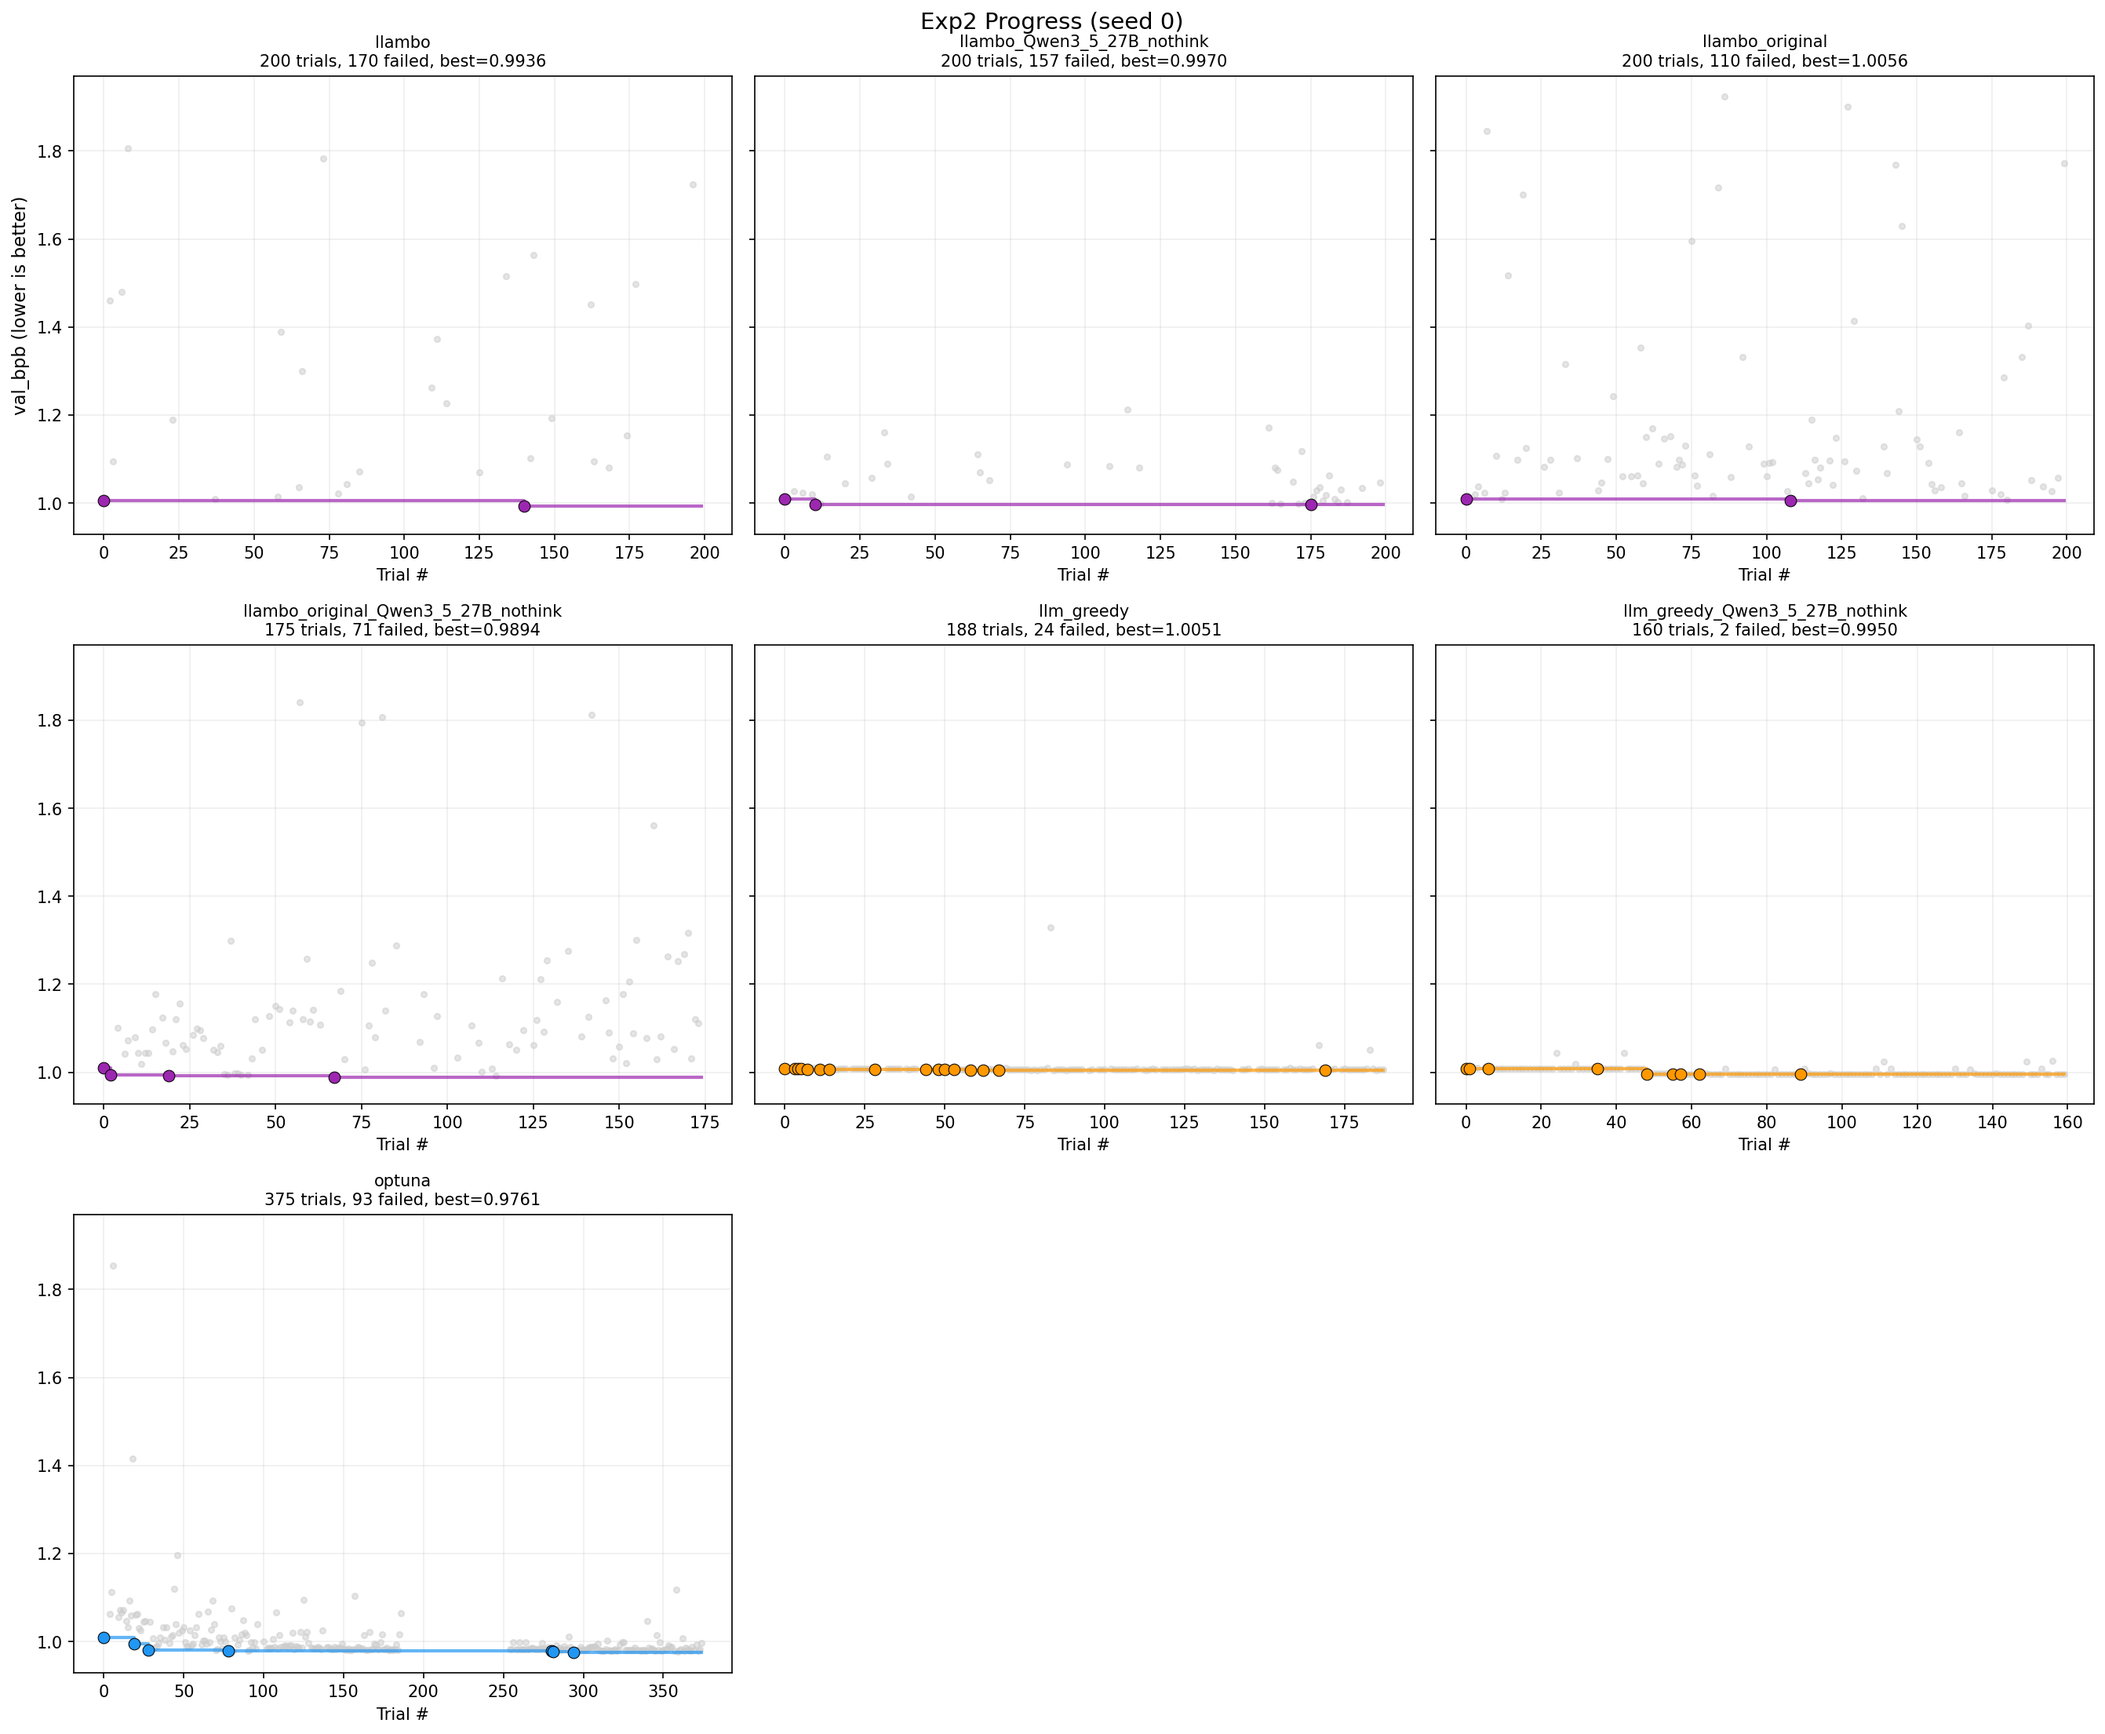
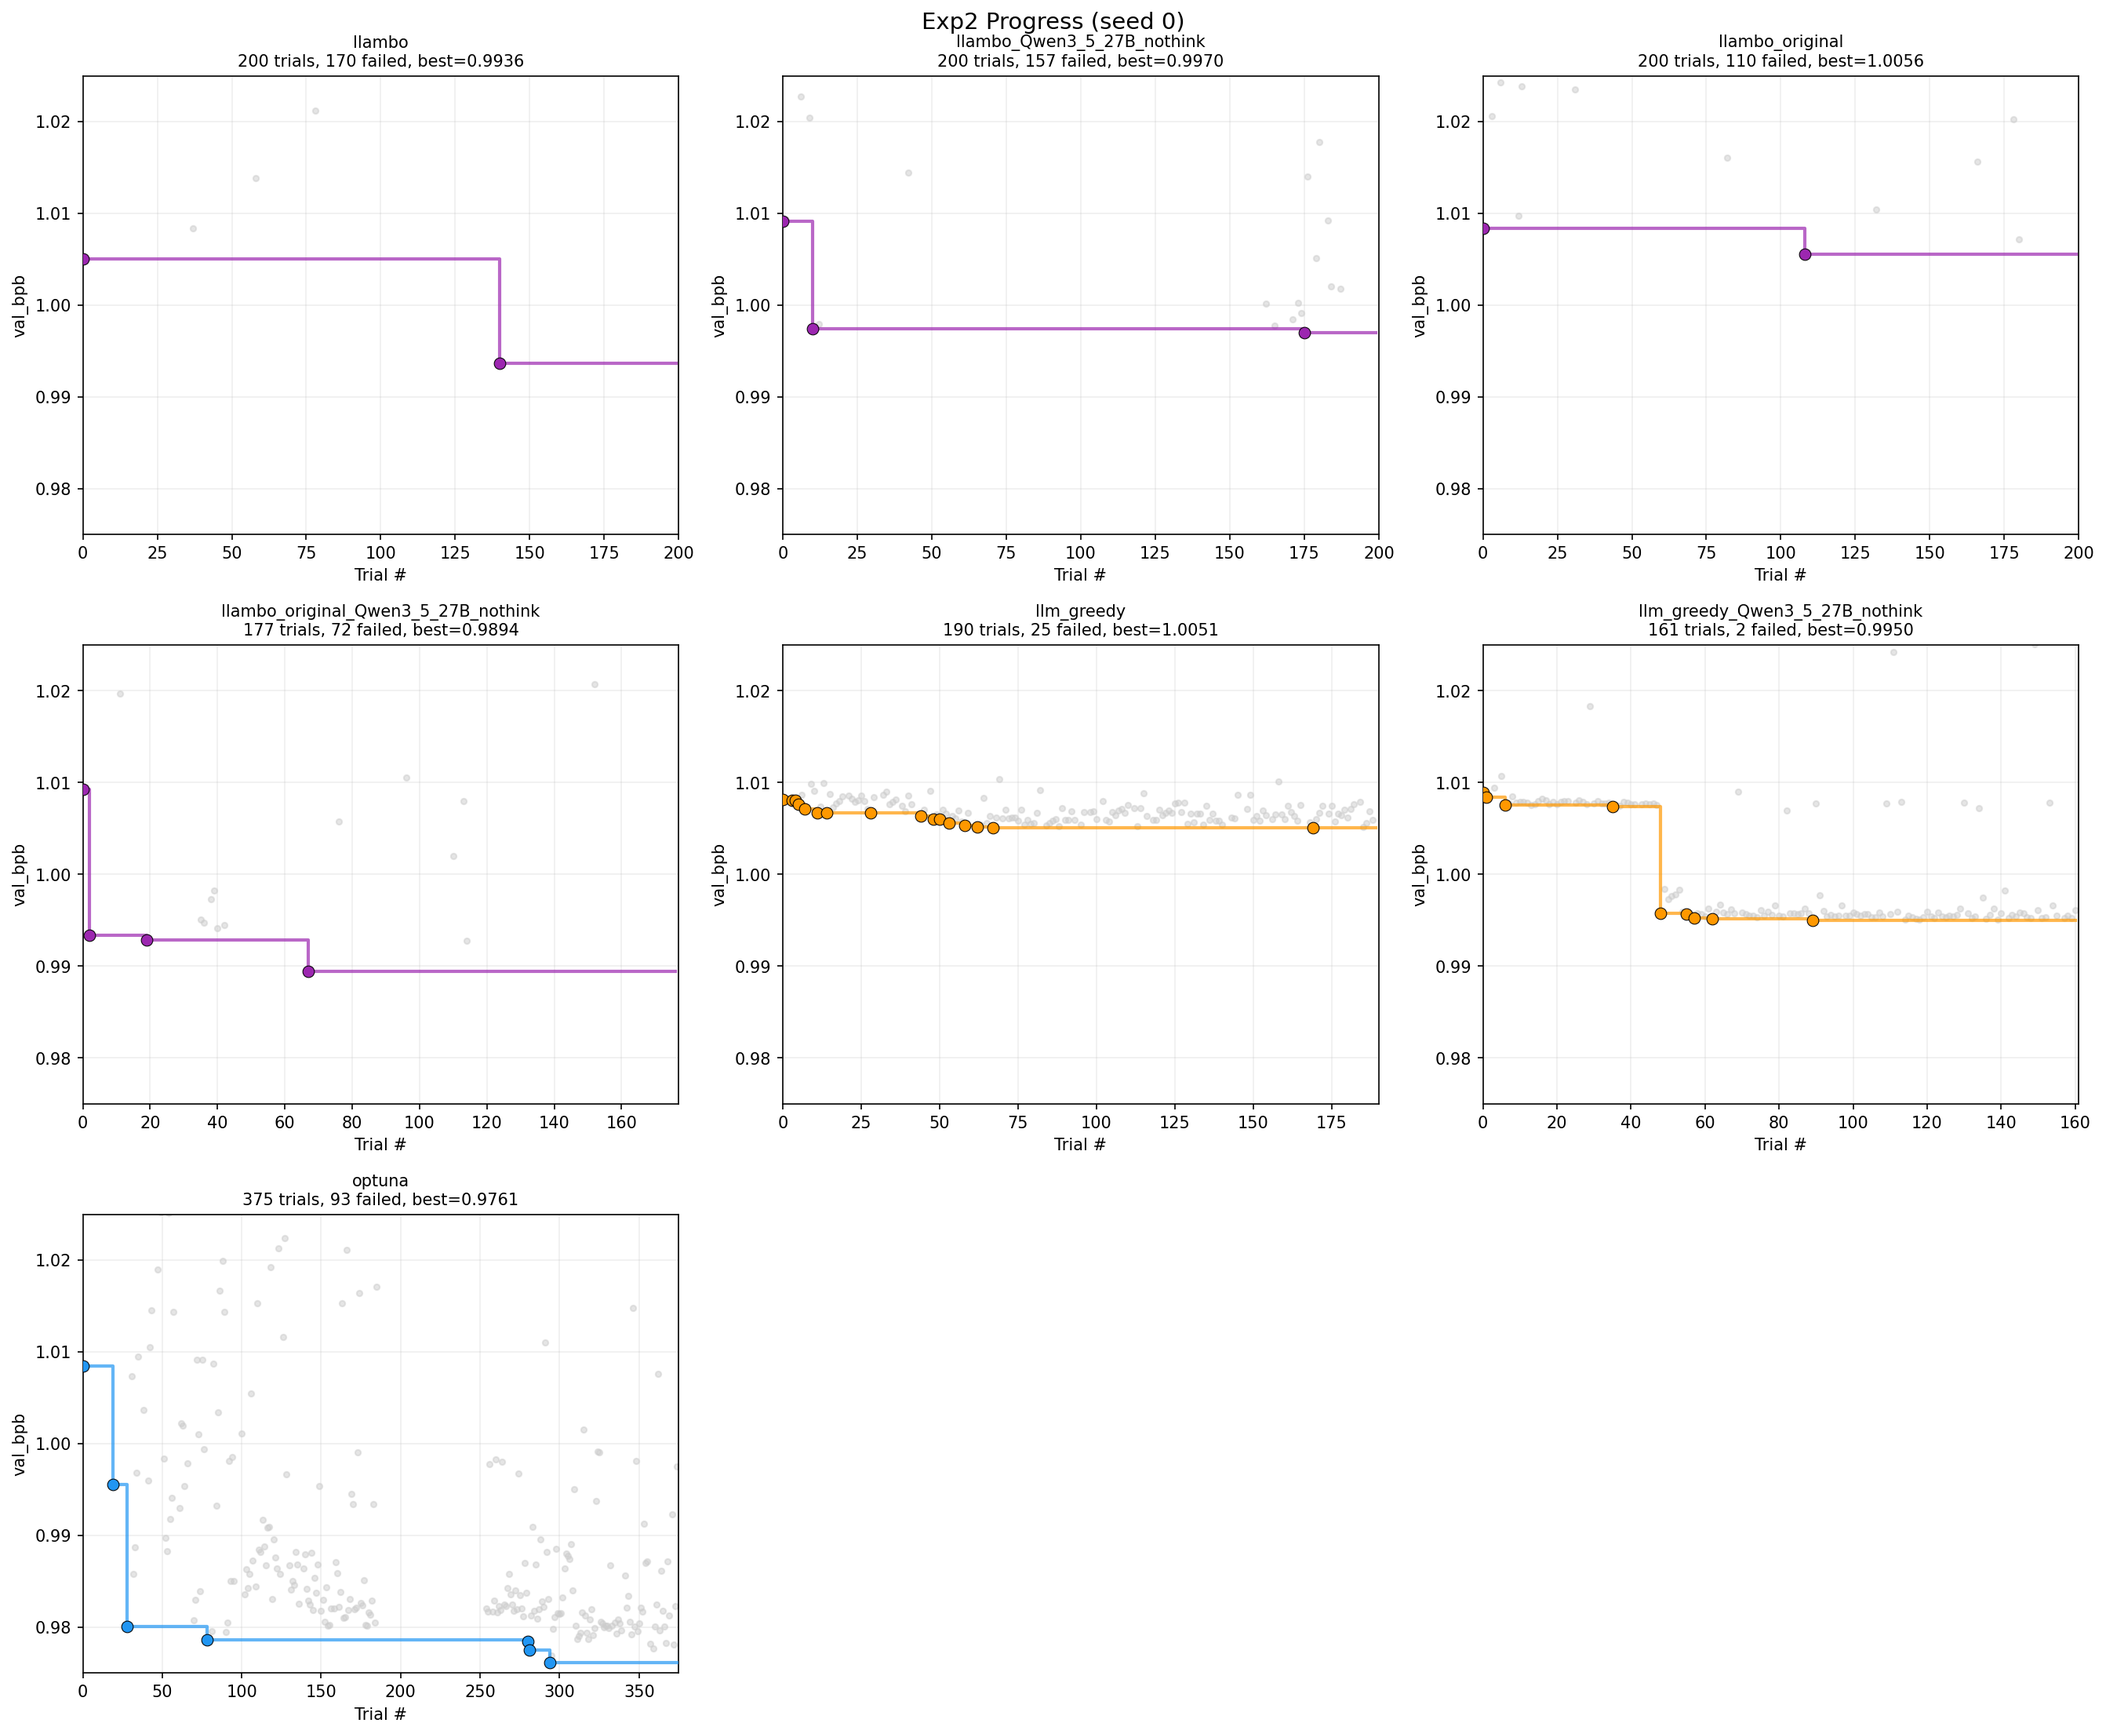
Improve plots: zoom axes, rename OptunaHub to Optuna, add model size comparison

diff --git a/scripts/plot_convergence.py b/scripts/plot_convergence.py
@@ -37,12 +37,13 @@ def plot_convergence_multi(
     backends: dict[str, dict],
     output_path: Path,
     title: str = "Convergence",
-    ylim: tuple[float, float] = (0.97, 1.05),
+    ylim: tuple[float, float] = (0.975, 1.012),
     xlim: tuple[int, int] | None = None,
 ):
     """Plot convergence with mean +/- std across seeds for multiple backends."""
     fig, ax = plt.subplots(figsize=(10, 6))
 
+    max_trials = 0
     for backend_dir, style in backends.items():
         seed_curves = []
         for seed in range(3):
@@ -58,6 +59,7 @@ def plot_convergence_multi(
 
         # Align to shortest curve
         min_len = min(len(c) for c in seed_curves)
+        max_trials = max(max_trials, min_len)
         aligned = np.array([c[:min_len] for c in seed_curves])
         aligned[aligned == float("inf")] = np.nan
 
@@ -77,6 +79,8 @@ def plot_convergence_multi(
     ax.set_ylim(*ylim)
     if xlim:
         ax.set_xlim(*xlim)
+    else:
+        ax.set_xlim(0, max_trials)
     ax.xaxis.set_major_locator(plt.MaxNLocator(integer=True))
     ax.legend(fontsize=10, loc="upper right")
     ax.grid(True, alpha=0.3)
@@ -90,7 +94,7 @@ def plot_exp2_0_8b(results_dir: Path, output_path: Path):
     """Exp2: 0.8B model — all backends."""
     backends = {
         "optuna": {"label": "TPE (Optuna)", "color": "#2196F3"},
-        "llambo": {"label": "LLAMBO (OptunaHub) 0.8B", "color": "#9C27B0"},
+        "llambo": {"label": "LLAMBO (Optuna) 0.8B", "color": "#9C27B0"},
         "llambo_original": {"label": "LLAMBO (Original) 0.8B", "color": "#E91E63"},
         "llm_greedy": {"label": "LLM Greedy 0.8B", "color": "#FF9800"},
     }
@@ -99,16 +103,15 @@ def plot_exp2_0_8b(results_dir: Path, output_path: Path):
         backends,
         output_path,
         title="Exp2: HPO Backend Comparison (Qwen3.5-0.8B)",
-        ylim=(0.97, 1.05),
     )
 
 
-def plot_exp2_27b_nothink(results_dir: Path, output_path: Path):
-    """Exp2: 27B no thinking — all backends."""
+def plot_exp2_27b(results_dir: Path, output_path: Path):
+    """Exp2: 27B — all backends."""
     backends = {
         "optuna": {"label": "TPE (Optuna)", "color": "#2196F3"},
         "llm_greedy_Qwen3_5_27B_nothink": {"label": "LLM Greedy 27B", "color": "#FF9800"},
-        "llambo_Qwen3_5_27B_nothink": {"label": "LLAMBO (OptunaHub) 27B", "color": "#9C27B0"},
+        "llambo_Qwen3_5_27B_nothink": {"label": "LLAMBO (Optuna) 27B", "color": "#9C27B0"},
         "llambo_original_Qwen3_5_27B_nothink": {"label": "LLAMBO (Original) 27B", "color": "#E91E63"},
     }
     plot_convergence_multi(
@@ -116,7 +119,6 @@ def plot_exp2_27b_nothink(results_dir: Path, output_path: Path):
         backends,
         output_path,
         title="Exp2: HPO Backend Comparison (Qwen3.5-27B)",
-        ylim=(0.97, 1.05),
     )
 
 
@@ -126,8 +128,8 @@ def plot_exp2_all(results_dir: Path, output_path: Path):
         "optuna": {"label": "TPE (Optuna)", "color": "#2196F3", "linestyle": "-"},
         "llm_greedy": {"label": "LLM Greedy 0.8B", "color": "#FF9800", "linestyle": "-"},
         "llm_greedy_Qwen3_5_27B_nothink": {"label": "LLM Greedy 27B", "color": "#FF9800", "linestyle": "--"},
-        "llambo": {"label": "LLAMBO (OH) 0.8B", "color": "#9C27B0", "linestyle": "-"},
-        "llambo_Qwen3_5_27B_nothink": {"label": "LLAMBO (OH) 27B", "color": "#9C27B0", "linestyle": "--"},
+        "llambo": {"label": "LLAMBO (Optuna) 0.8B", "color": "#9C27B0", "linestyle": "-"},
+        "llambo_Qwen3_5_27B_nothink": {"label": "LLAMBO (Optuna) 27B", "color": "#9C27B0", "linestyle": "--"},
         "llambo_original": {"label": "LLAMBO (Orig) 0.8B", "color": "#E91E63", "linestyle": "-"},
         "llambo_original_Qwen3_5_27B_nothink": {"label": "LLAMBO (Orig) 27B", "color": "#E91E63", "linestyle": "--"},
     }
@@ -136,7 +138,23 @@ def plot_exp2_all(results_dir: Path, output_path: Path):
         backends,
         output_path,
         title="Exp2: All Backends Comparison",
-        ylim=(0.97, 1.05),
+    )
+
+
+def plot_exp2_model_size(results_dir: Path, output_path: Path):
+    """Compare 0.8B vs 27B for each LLM backend."""
+    backends = {
+        "optuna": {"label": "TPE (Optuna)", "color": "#2196F3", "linestyle": "-"},
+        "llm_greedy": {"label": "LLM Greedy 0.8B", "color": "#FF9800", "linestyle": "-"},
+        "llm_greedy_Qwen3_5_27B_nothink": {"label": "LLM Greedy 27B", "color": "#FF9800", "linestyle": "--"},
+        "llambo_original": {"label": "LLAMBO (Orig) 0.8B", "color": "#E91E63", "linestyle": "-"},
+        "llambo_original_Qwen3_5_27B_nothink": {"label": "LLAMBO (Orig) 27B", "color": "#E91E63", "linestyle": "--"},
+    }
+    plot_convergence_multi(
+        results_dir / "exp2_benchmark",
+        backends,
+        output_path,
+        title="Exp2: Model Size Comparison (0.8B vs 27B)",
     )
 
 
@@ -164,7 +182,7 @@ def plot_progress(results_dir: Path, output_path: Path):
     n = len(all_backends)
     cols = min(3, n)
     rows = (n + cols - 1) // cols
-    fig, axes = plt.subplots(rows, cols, figsize=(6 * cols, 5 * rows), sharey=True, squeeze=False)
+    fig, axes = plt.subplots(rows, cols, figsize=(6 * cols, 5 * rows), squeeze=False)
 
     for idx, backend_name in enumerate(all_backends):
         ax = axes[idx // cols][idx % cols]
@@ -216,13 +234,15 @@ def plot_progress(results_dir: Path, output_path: Path):
         best_str = f"{best:.4f}" if best < float("inf") else "N/A"
         ax.set_title(f"{backend_name}\n{len(trials)} trials, {n_fail} failed, best={best_str}", fontsize=10)
         ax.set_xlabel("Trial #", fontsize=10)
+        ax.set_ylabel("val_bpb", fontsize=10)
+        ax.set_xlim(0, len(trials))
+        ax.set_ylim(0.975, 1.025)
         ax.grid(True, alpha=0.2)
 
     # Hide unused subplots
     for idx in range(n, rows * cols):
         axes[idx // cols][idx % cols].set_visible(False)
 
-    axes[0][0].set_ylabel("val_bpb (lower is better)", fontsize=11)
     fig.suptitle("Exp2 Progress (seed 0)", fontsize=14)
     fig.tight_layout()
     fig.savefig(output_path, dpi=150, bbox_inches="tight")
@@ -236,6 +256,7 @@ if __name__ == "__main__":
     assets_dir.mkdir(exist_ok=True)
 
     plot_exp2_0_8b(results_dir, assets_dir / "exp2_0.8b_convergence.png")
-    plot_exp2_27b_nothink(results_dir, assets_dir / "exp2_27b_nothink_convergence.png")
+    plot_exp2_27b(results_dir, assets_dir / "exp2_27b_convergence.png")
     plot_exp2_all(results_dir, assets_dir / "exp2_all_convergence.png")
+    plot_exp2_model_size(results_dir, assets_dir / "exp2_model_size.png")
     plot_progress(results_dir, assets_dir / "exp2_progress.png")
